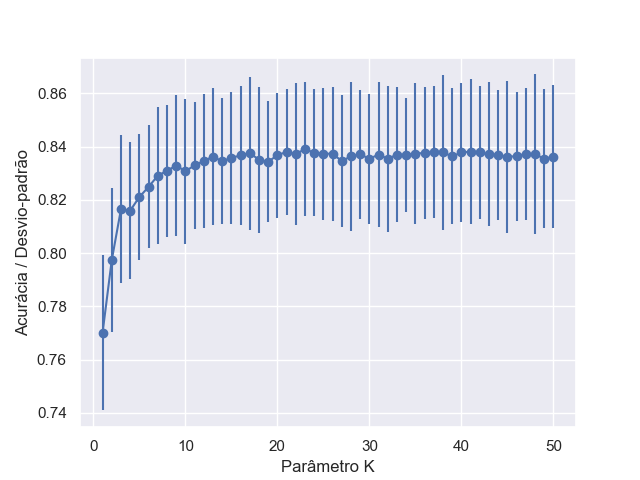
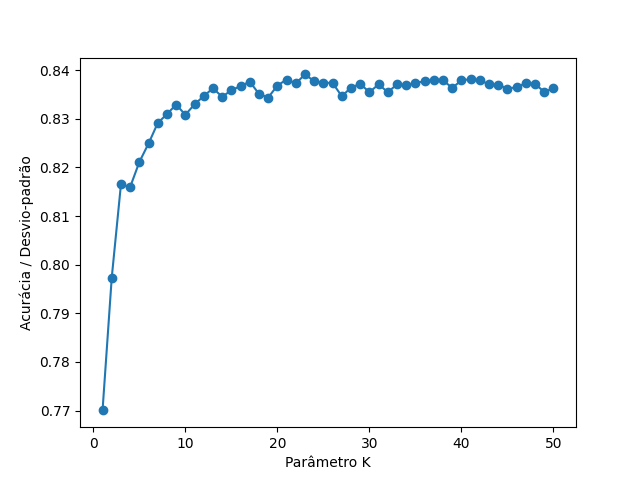
update

diff --git a/main2.py b/main2.py
@@ -106,11 +106,11 @@ def searchParameter(dataset, model, times_kfold, parameter_list, get_distributio
 
 
 # search K for KNN
-knn_search = searchParameter(data, 'KNN_', times_kfold = 10, parameter_list = range(1,51))
+knn_search = searchParameter(data, 'KNN_', times_kfold = 30, parameter_list = range(1,51))
 knn_search.to_csv('output/searches/knn_search_k.csv', index=False)
 
 # search h for Parzen Window 
-parzen_search = searchParameter(data, 'Parzen_', times_kfold = 10, parameter_list = [0.1, 0.2, 0.3, 0.4, 0.5, 0.6, 0.7, 0.8, 0.9])
+parzen_search = searchParameter(data, 'Parzen_', times_kfold = 30, parameter_list = [0.1, 0.2, 0.3, 0.4, 0.5, 0.6, 0.7, 0.8, 0.9])
 parzen_search.to_csv('output/searches/parzen_search_h.csv', index=False)
 
 
@@ -120,19 +120,15 @@ visualize search parameters
 """""""""""""""""""""""""""""""""""""""""""""""""""
 
 def plotSearch(df):
-
     df = df[df.target == 'target_partition2']
-
+    print(df[df.accuracy == max(df.accuracy)])
     import matplotlib.pyplot as plt
-
     fig, ax = plt.subplots()
     ax.errorbar(df.parameter, df.accuracy,
-                yerr=df.standard_deviation,
+                #yerr=df.standard_deviation,
                 fmt='-o')
-
     ax.set_xlabel('Parâmetro K')
     ax.set_ylabel('Acurácia / Desvio-padrão')
-
     plt.show()
 
 
@@ -146,15 +142,15 @@ for KNN and Parzen Window
 
 # GNB
 gnb = searchParameter(data, 'GNB_', times_kfold = 30, parameter_list = ['dummy'], get_distribution=True)
-gnb.to_csv('output/searches/GNB.csv', index=False)
+gnb.to_csv('output/results_gnb.csv', index=False)
 
 # KNN
-knn = searchParameter(data, 'KNN_', times_kfold = 30, parameter_list = [9], get_distribution=True)
-knn.to_csv('output/searches/knn.csv', index=False)
+knn = searchParameter(data, 'KNN_', times_kfold = 30, parameter_list = [23], get_distribution=True)
+knn.to_csv('output/results_knn.csv', index=False)
 
 # Parzen Window
 parzen = searchParameter(data, 'Parzen_', times_kfold = 30, parameter_list = [0.4], get_distribution=True)
-parzen.to_csv('output/searches/parzen.csv', index=False)
+parzen.to_csv('output/results_pw.csv', index=False)
 
 
 """""""""""""""""""""""""""""""""""""""""""""""""""
@@ -163,9 +159,9 @@ EVALUATION METRICS
 
 
 # import experiment results
-gnb = pd.read_csv('output/searches/GNB.csv')
-knn = pd.read_csv('output/searches/knn.csv')
-parzen = pd.read_csv('output/searches/parzen.csv')
+gnb = pd.read_csv('output/results_gnb.csv')
+knn = pd.read_csv('output/results_knn.csv')
+parzen = pd.read_csv('output/results_pw.csv')
 
 # name models and combine
 gnb['model'] = 'gnb'
@@ -174,34 +170,46 @@ parzen['model'] = 'parzen'
 models = pd.concat([gnb, knn, parzen]).reset_index(drop=True)
 
 
-# accuracy and confidence interval of best models
-best_models = models[models.target == 'target_partition2'].reset_index(drop=True) 
-table1 = {'model':[],'mean_accuracy':[],'confidence_interval_90':[], 'confidence_interval_95':[]}
-for i in range(len(best_models)):
-    best_models.accuracy[i] = best_models.accuracy[i].replace(']','').replace('[','').split(', ')
-    best_models.accuracy[i] = [float(x) for x in best_models.accuracy[i]]
-    acc = best_models.accuracy[i]
-    table1['model'].append(best_models.model[i]  + '_' + best_models.target[i]) 
-    table1['mean_accuracy'].append( np.mean(acc) ) 
-    table1['confidence_interval_90'].append( (np.percentile(acc, 5.0), np.percentile(acc, 95.0))   ) 
-    table1['confidence_interval_95'].append( (np.percentile(acc, 2.5), np.percentile(acc, 97.5))   ) 
+def metricsTable(models, target_partition, version=''):
 
-table1 = pd.DataFrame(table1)
-table1.to_csv('output/results_main2.csv')
+    # accuracy and confidence interval of best models
+    best_models = models[models.target == target_partition].reset_index(drop=True) 
+    table1 = {'model':[],'mean_accuracy':[],'confidence_interval_90':[], 'confidence_interval_95':[]}
 
-# friedman 
+    for i in range(len(best_models)):
+        best_models.accuracy[i] = best_models.accuracy[i].replace(']','').replace('[','').split(', ')
+        best_models.accuracy[i] = [float(x) for x in best_models.accuracy[i]]
+        acc = best_models.accuracy[i]
+        table1['model'].append(best_models.model[i]  + '_' + best_models.target[i]) 
+        table1['mean_accuracy'].append( np.mean(acc) ) 
+        table1['confidence_interval_90'].append( (np.percentile(acc, 5.0), np.percentile(acc, 95.0))   ) 
+        table1['confidence_interval_95'].append( (np.percentile(acc, 2.5), np.percentile(acc, 97.5))   ) 
+
+    table1 = pd.DataFrame(table1)
+    table1.to_csv('output/results_main2'+version+'.csv')
+
+    return best_models
+
+
+# best partition on part 1
+models_test = metricsTable(models, 'target_partition2')
+
+# original target for comparison
+metricsTable(models, 'target_original',version='_original')
+
+# friedman test
 from scipy.stats import friedmanchisquare
-stat, p = friedmanchisquare(best_models.accuracy[0], best_models.accuracy[1], best_models.accuracy[2])
-print('Friedman Test for All=%.6f, p=%.6f' % (stat, p))
+stat, p = friedmanchisquare(models_test.accuracy[0], models_test.accuracy[1], models_test.accuracy[2])
+print('Friedman Test for All=%.6f, p=%.20f' % (stat, p))
 
 # paired wilcoxon
 from scipy.stats import wilcoxon
 
-stat, p = wilcoxon(best_models.accuracy[0], best_models.accuracy[1])
+stat, p = wilcoxon(models_test.accuracy[0], models_test.accuracy[1])
 print('Wilcoxon Test GNB/KNN =%.6f, p=%.6f' % (stat, p))
 
-stat, p = wilcoxon(best_models.accuracy[0], best_models.accuracy[2])
+stat, p = wilcoxon(models_test.accuracy[0], models_test.accuracy[2])
 print('Wilcoxon Test GNB/Parzen =%.6f, p=%.6f' % (stat, p))
 
-stat, p = wilcoxon(best_models.accuracy[1], best_models.accuracy[2])
+stat, p = wilcoxon(models_test.accuracy[1], models_test.accuracy[2])
 print('Wilcoxon Test KNN/Parzen =%.6f, p=%.6f' % (stat, p))
